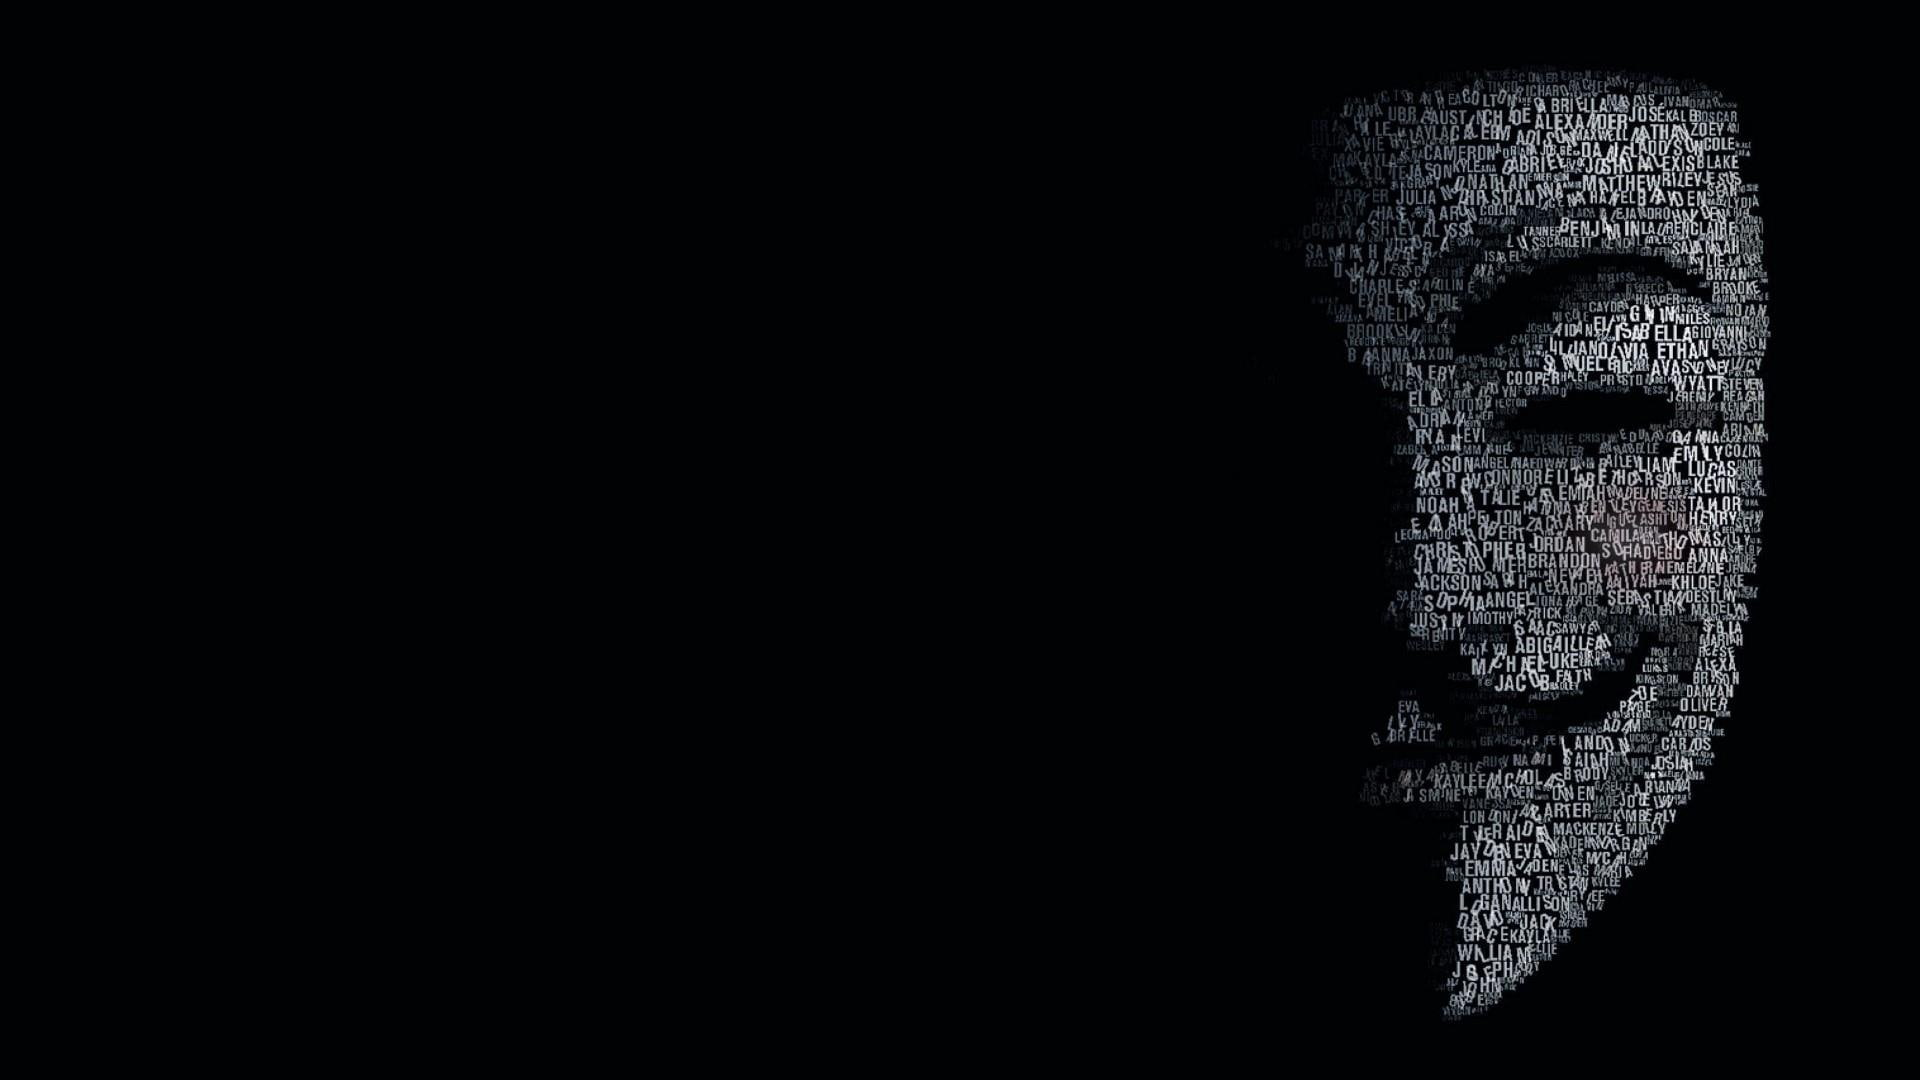
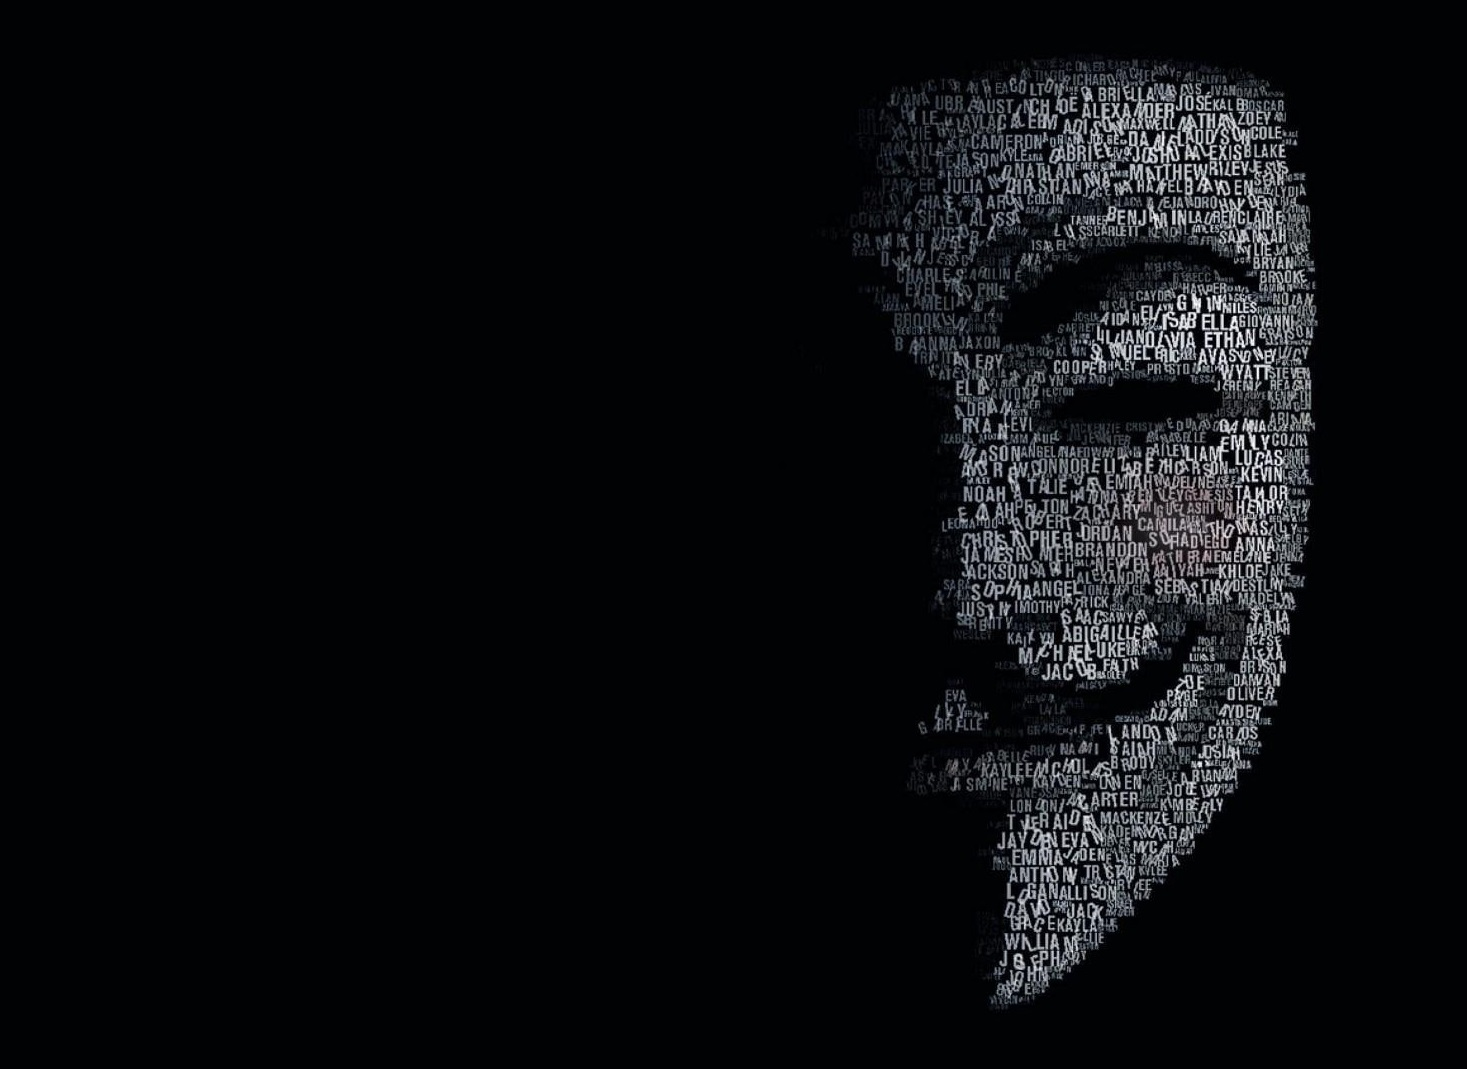
updated

Changed region(s): [[0.5828, 0.0617, 0.9202, 0.957]]

diff --git a/index.html b/index.html
@@ -7,13 +7,20 @@
     <title>GROUP 9</title>
     <style>
         .bgimg{
-            background-image: url('https://www.google.com/url?sa=i&url=https%3A%2F%2Fwallpaperaccess.com%2Fhacker-full-hd&psig=AOvVaw3ot3s4STejmMtbiYuiFrrV&ust=1668752485934000&source=images&cd=vfe&ved=0CA8QjRxqFwoTCNDGhrrJtPsCFQAAAAAdAAAAABAS');
-            width: 100vh;
+            background-image: url('bgimg.jpg');
+            background-size: cover;
+            background-repeat: no-repeat;
+            height: 100vh;
+            color: gray;
+            text-decoration: none;
+        }
+        a:link { 
+            text-decoration: none; 
+            color: gray;
         }
     </style>
 </head>
-<body class="bgimg">
-    <div class="container">
+<body class="container bgimg bg-img">
             <h1>This is GROUP 9</h1>
     </div>
     
